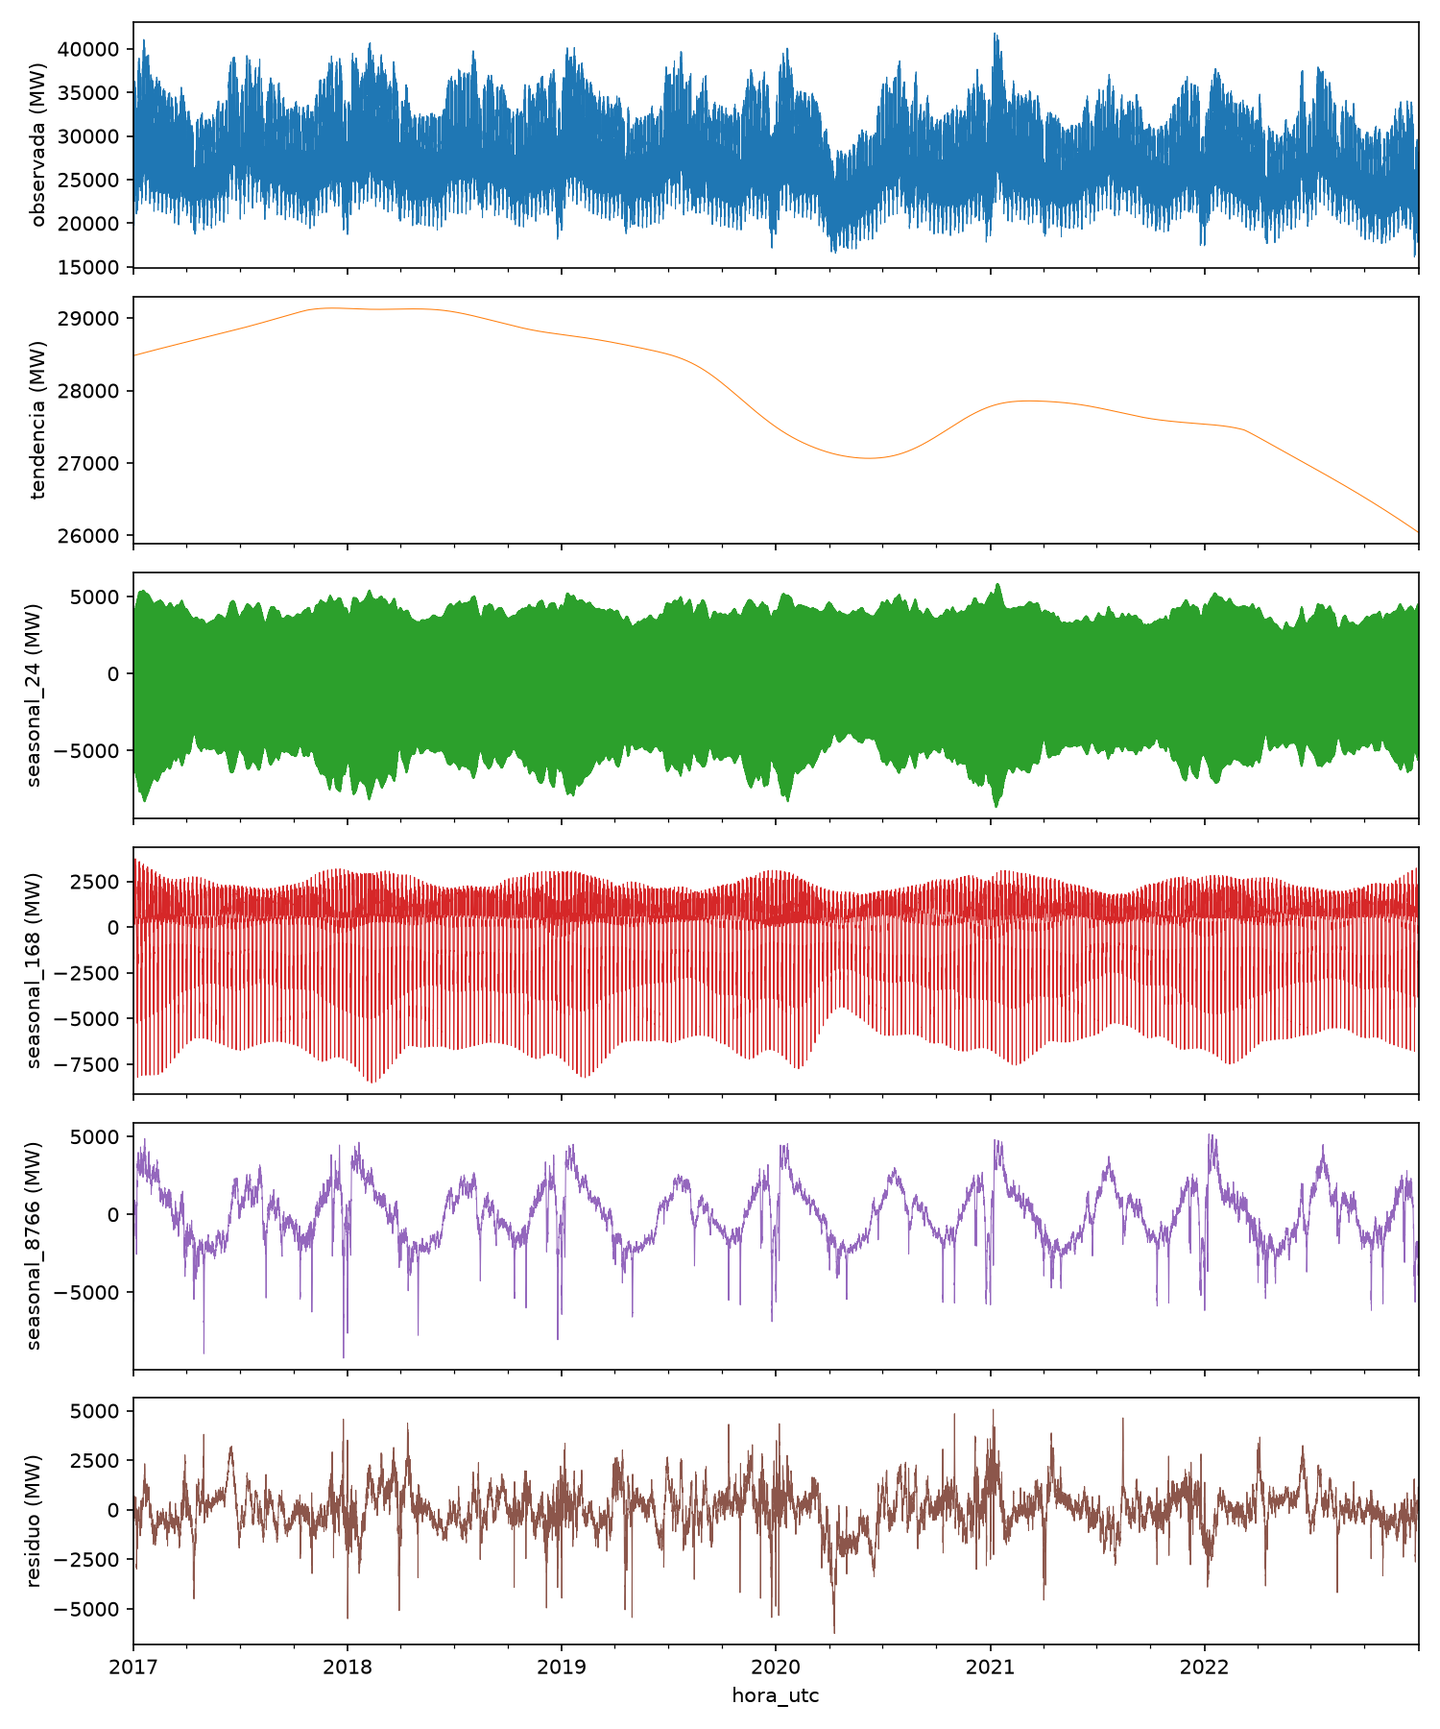
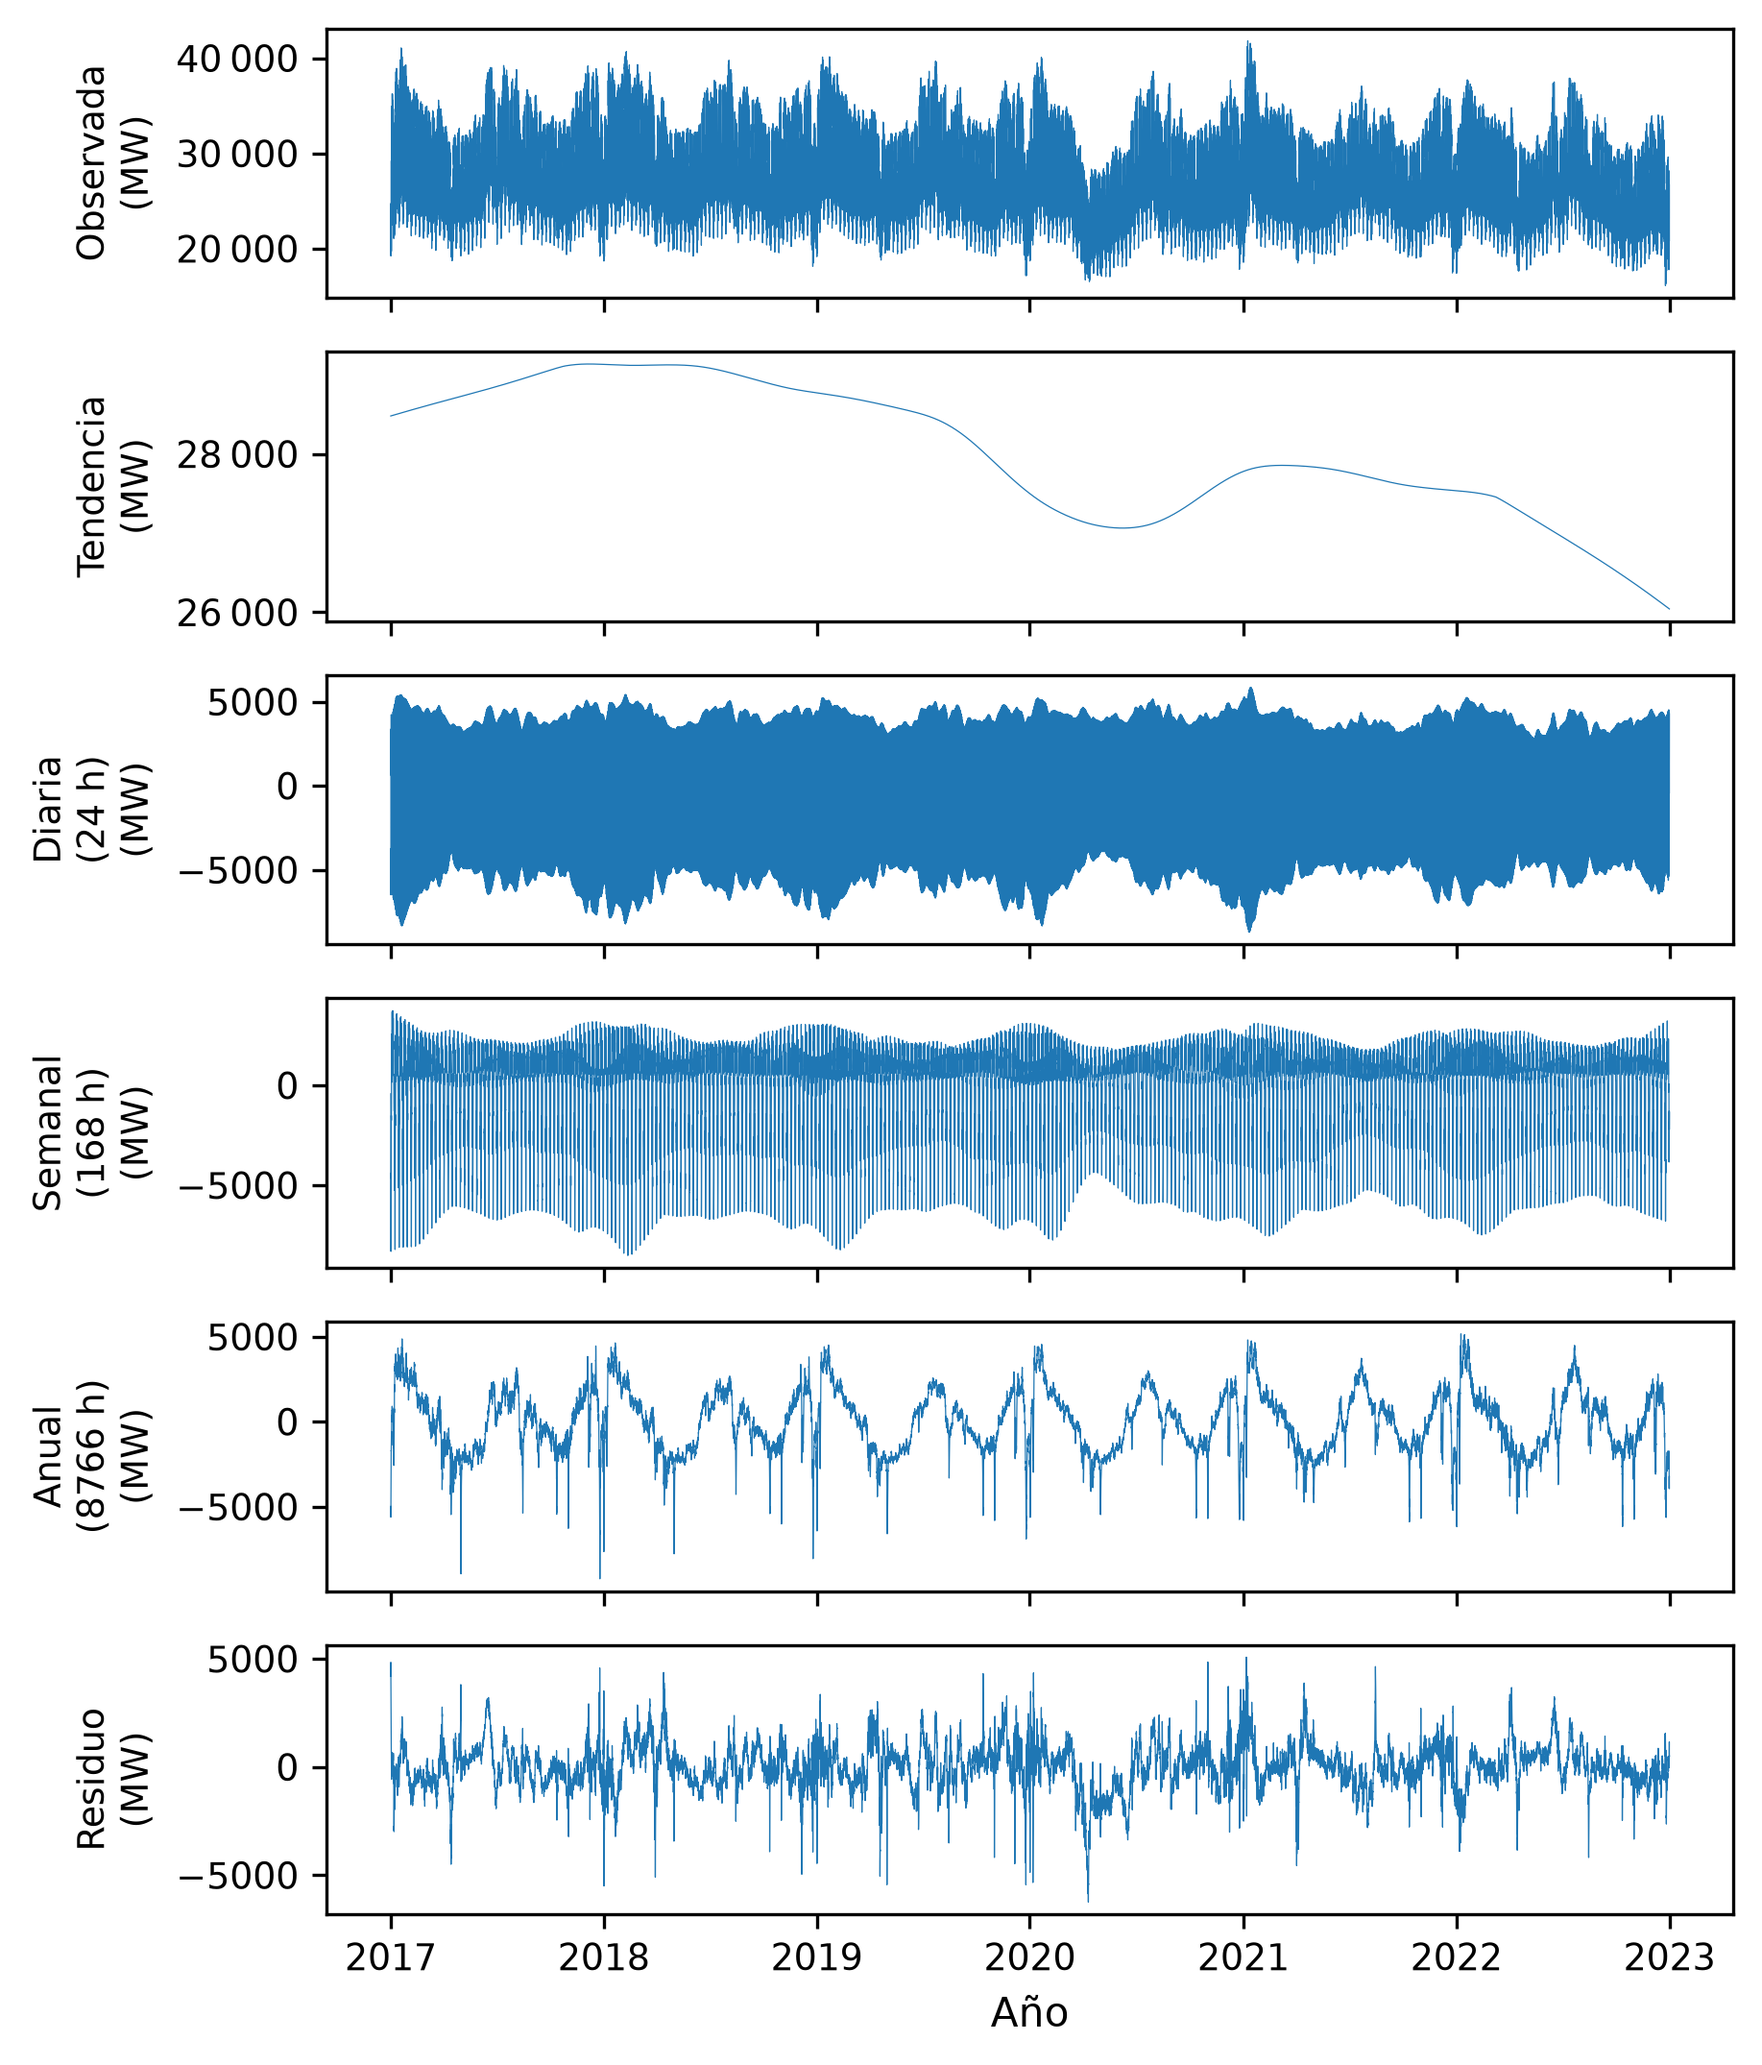
feat(exploracion): estadísticos descriptivos 2017-2022 y figuras definitivas de 5.1 guardadas en memoria/figuras (sin título, coma decimal, rótulos en español); 5.1 con unidades del periodograma y banda de Bartlett

diff --git a/src/14_exploracion.py b/src/14_exploracion.py
@@ -3,7 +3,9 @@ from pathlib import Path
 
 import matplotlib
 matplotlib.use("Agg")  # guarda las figuras en archivo, sin abrir ventanas
+import matplotlib.dates as mdates
 import matplotlib.pyplot as plt
+from matplotlib.ticker import FuncFormatter
 import pandas as pd
 import numpy as np
 from scipy.signal import periodogram
@@ -13,8 +15,28 @@ from statsmodels.graphics.tsaplots import plot_acf, plot_pacf
 
 RAIZ = Path(__file__).resolve().parent.parent
 DATASET = RAIZ / "data" / "processed" / "dataset.parquet"
-FIGURAS = RAIZ / "figuras" / "exploracion"
-FIGURAS.mkdir(parents=True, exist_ok=True)
+FIGURAS_MEMORIA = RAIZ / "memoria" / "figuras"  # figuras definitivas (versionadas en git)
+FIGURAS_MEMORIA.mkdir(parents=True, exist_ok=True)
+
+# --- Estilo común de las figuras de la memoria ---
+ANCHO = 6.3  # pulgadas = 16 cm, el ancho de texto de la memoria (A4, márgenes de 2,5 cm)
+plt.rcParams.update({"font.size": 9, "axes.labelsize": 10, "legend.fontsize": 9})
+
+
+def numero_es(x, _pos=None):
+    """Rótulo de eje en formato español: coma decimal y espacio fino de miles desde cinco cifras."""
+    texto = f"{abs(x):.6f}".rstrip("0").rstrip(".")
+    entera, _, decimales = texto.partition(".")
+    if len(entera) >= 5:
+        entera = f"{int(entera):,}".replace(",", "\u2009")
+    texto = entera + ("," + decimales if decimales else "")
+    return ("\u2212" if x < 0 else "") + texto
+
+
+def guardar(fig, nombre):
+    """Guarda una figura definitiva en memoria/figuras a 300 ppp y la cierra."""
+    fig.savefig(FIGURAS_MEMORIA / nombre, dpi=300, bbox_inches="tight")
+    plt.close(fig)
 
 HUELLA_OFICIAL = 5794786326140387865
 FIN_EXPLORACION = pd.Timestamp("2023-01-01")  # 2023 validación, 2024 prueba: no se miran
@@ -30,6 +52,18 @@ print("Desde", explo["hora_local"].min(), "hasta", explo["hora_local"].max())
 print("Horas COVID dentro:", int(explo["excluir_covid"].sum()))
 
 
+# --- 0. Estadísticos descriptivos de 2017-2022 (apertura de la sección 5.1) ---
+dem = explo["demanda_mw"]
+print(f"Demanda: media {dem.mean():.0f} MW, desv. típ. {dem.std():.0f} MW, "
+      f"media sin COVID {dem[~explo['excluir_covid']].mean():.0f} MW")
+print(f"Demanda: mínimo {dem.min():.0f} MW, máximo {dem.max():.0f} MW")
+medias_anuales = dem.groupby(explo["fecha_local"].dt.year).mean().round().astype(int)
+print("Demanda media anual (MW):", medias_anuales.to_dict())
+tp = explo["t_ponderada"]
+print(f"Temperatura ponderada: media {tp.mean():.2f} °C, "
+      f"mínimo {tp.min():.2f} °C, máximo {tp.max():.2f} °C")
+
+
 # --- 1b. Periodograma ---
 y = explo["demanda_mw"].to_numpy()
 frec, potencia = periodogram(y - y.mean(), fs=1.0)  # fs=1: frecuencia en ciclos por hora
@@ -39,16 +73,16 @@ periodo = 1 / frec                                   # periodo en horas
 picos = pd.Series(potencia, index=periodo).nlargest(8)
 print("Periodos con más potencia (h):", [round(p, 1) for p in picos.index])
 
-fig, ax = plt.subplots(figsize=(9, 4))
+fig, ax = plt.subplots(figsize=(ANCHO, 3.0))
 ax.loglog(periodo, potencia, linewidth=0.5)
 for p in (24, 168, 8766):
-    ax.axvline(p, color="red", linestyle="--", linewidth=0.8)
+    ax.axvline(p, color="red", linestyle="--", linewidth=0.8, alpha=0.6, zorder=0)
+    ax.text(p, 1.02, f"{p} h", transform=ax.get_xaxis_transform(),
+            ha="center", va="bottom", fontsize=8, color="red")
+ax.xaxis.set_major_formatter(FuncFormatter(numero_es))  # 10, 100, 1000, 10 000 en vez de potencias
 ax.set_xlabel("Periodo (horas)")
-ax.set_ylabel("Potencia espectral")
-ax.set_title("Periodograma de la demanda horaria, 2017-2022")
-fig.tight_layout()
-fig.savefig(FIGURAS / "periodograma.png", dpi=150)
-plt.close(fig)
+ax.set_ylabel("Potencia espectral (MW²·h)")
+guardar(fig, "periodograma.png")
 
 
 # --- 1b bis. Peso del ciclo anual frente al semestral ---
@@ -78,13 +112,18 @@ print("Desviación típica de cada componente (MW):")
 print(comp.std().round(0))
 
 paneles = pd.concat([serie.rename("observada"), comp[["tendencia", "seasonal_24", "seasonal_168", "seasonal_8766", "residuo"]]], axis=1)
-axes = paneles.plot(subplots=True, figsize=(10, 12), linewidth=0.5, legend=False)
+ROTULOS_MSTL = {"observada": "Observada", "tendencia": "Tendencia", "seasonal_24": "Diaria\n(24 h)",
+                "seasonal_168": "Semanal\n(168 h)", "seasonal_8766": "Anual\n(8766 h)", "residuo": "Residuo"}
+fig, axes = plt.subplots(len(paneles.columns), 1, figsize=(ANCHO, 8.5), sharex=True)
 for ax, nombre in zip(axes, paneles.columns):
-    ax.set_ylabel(f"{nombre} (MW)")
-fig = axes[0].get_figure()
-fig.tight_layout()
-fig.savefig(FIGURAS / "descomposicion_mstl.png", dpi=150)
-plt.close(fig)
+    ax.plot(paneles.index, paneles[nombre], linewidth=0.3)
+    ax.set_ylabel(ROTULOS_MSTL[nombre] + "\n(MW)", fontsize=9)
+    ax.yaxis.set_major_formatter(FuncFormatter(numero_es))
+axes[-1].xaxis.set_major_locator(mdates.YearLocator())
+axes[-1].xaxis.set_major_formatter(mdates.DateFormatter("%Y"))
+axes[-1].set_xlabel("Año")
+fig.align_ylabels(axes)
+guardar(fig, "descomposicion_mstl.png")
 
 
 # --- 2a. Contrastes de estacionariedad: ADF y KPSS ---
@@ -102,16 +141,21 @@ for nombre, s in [("demanda", serie), ("residuo", comp["residuo"])]:
     r = acf(s, nlags=336)
     print(f"ACF {nombre}: k=1 {r[1]:.2f}, k=24 {r[24]:.2f}, k=168 {r[168]:.2f}, k=336 {r[336]:.2f}")
 
-fig, axes = plt.subplots(2, 2, figsize=(12, 7))
-for fila, (nombre, s) in enumerate([("demanda", serie), ("residuo MSTL", comp["residuo"])]):
-    plot_acf(s, lags=400, ax=axes[fila, 0], markersize=2, title=f"ACF {nombre}")
-    plot_pacf(s, lags=400, ax=axes[fila, 1], markersize=2, method="ywm", title=f"PACF {nombre}")
+fig, axes = plt.subplots(2, 2, figsize=(ANCHO, 4.8), sharex=True, sharey=True)
+for fila, (nombre, s) in enumerate([("de la demanda", serie), ("del residuo de MSTL", comp["residuo"])]):
+    plot_acf(s, lags=400, ax=axes[fila, 0], markersize=1.5, title=f"ACF {nombre}")
+    plot_pacf(s, lags=400, ax=axes[fila, 1], markersize=1.5, method="ywm", title=f"PACF {nombre}")
 for ax in axes.flat:
+    ax.title.set_fontsize(9)
     for p in (24, 168, 336):
-        ax.axvline(p, color="red", linestyle="--", linewidth=0.6)
+        ax.axvline(p, color="red", linestyle="--", linewidth=0.6, alpha=0.6, zorder=0)
+    ax.yaxis.set_major_formatter(FuncFormatter(numero_es))
+for ax in axes[1, :]:
+    ax.set_xlabel("Retardo (horas)")
+for ax in axes[:, 0]:
+    ax.set_ylabel("Correlación")
 fig.tight_layout()
-fig.savefig(FIGURAS / "acf_pacf.png", dpi=150)
-plt.close(fig)
+guardar(fig, "acf_pacf.png")
 
 
 # --- 3a. Curva demanda-temperatura (días laborables, sin COVID) ---
@@ -127,15 +171,16 @@ print("Días laborables sin COVID:", len(lab))
 curva = lab.groupby(lab["temp"].round())["demanda"].agg(["mean", "count"])
 print(curva.round(0).to_string())
 
-fig, ax = plt.subplots(figsize=(8, 5))
-ax.scatter(lab["temp"], lab["demanda"], s=4, alpha=0.4)
-ax.plot(curva.index, curva["mean"], color="red", linewidth=1.5)
+fig, ax = plt.subplots(figsize=(0.85 * ANCHO, 3.6))  # en la memoria va a 0,85 del ancho
+ax.scatter(lab["temp"], lab["demanda"], s=4, alpha=0.4, label="Día laborable")
+ax.plot(curva.index, curva["mean"], color="red", linewidth=1.5, label="Media por intervalo de 1 °C")
 ax.set_xlabel("Temperatura media diaria ponderada (°C)")
 ax.set_ylabel("Demanda media diaria (MW)")
-ax.set_title("Demanda frente a temperatura, laborables 2017-2022 sin COVID")
-fig.tight_layout()
-fig.savefig(FIGURAS / "demanda_temperatura.png", dpi=150)
-plt.close(fig)
+ax.xaxis.set_major_formatter(FuncFormatter(numero_es))
+ax.yaxis.set_major_formatter(FuncFormatter(numero_es))
+ax.set_ylim(top=ax.get_ylim()[1] + 2500)  # hueco arriba para que la leyenda no tape puntos
+ax.legend(markerscale=3, loc="upper center")
+guardar(fig, "demanda_temperatura.png")
 
 
 # --- 3b. Umbrales de grados-día (por provincia, ponderados después) ---
@@ -172,18 +217,20 @@ ajuste = X @ coef
 r2 = 1 - ((yd - ajuste) ** 2).sum() / ((yd - yd.mean()) ** 2).sum()
 print(f"Umbrales: Tc={TC} °C, Tr={TR} °C; R² = {r2:.3f}")
 
-fig, ax = plt.subplots(figsize=(8, 5))
-ax.scatter(lab["temp"], yd, s=4, alpha=0.3, label="observada")
-ax.scatter(lab["temp"], ajuste, s=4, alpha=0.6, color="red", label="ajustada (grados-día + año)")
-ax.axvline(TC, color="black", linestyle="--", linewidth=0.8)
-ax.axvline(TR, color="black", linestyle="--", linewidth=0.8)
+fig, ax = plt.subplots(figsize=(0.85 * ANCHO, 3.6))  # en la memoria va a 0,85 del ancho
+ax.scatter(lab["temp"], yd, s=4, alpha=0.3, label="Observada")
+ax.scatter(lab["temp"], ajuste, s=4, alpha=0.6, color="red", label="Ajustada (grados-día y año)")
+for umbral, nombre, lado in ((TC, "$T_c$", "right"), (TR, "$T_r$", "left")):
+    ax.axvline(umbral, color="black", linestyle="--", linewidth=0.8, zorder=0)
+    ax.text(umbral, 1.02, f" {nombre} = {numero_es(umbral)} °C ", transform=ax.get_xaxis_transform(),
+            ha=lado, va="bottom", fontsize=8)
 ax.set_xlabel("Temperatura media diaria ponderada (°C)")
 ax.set_ylabel("Demanda media diaria (MW)")
-ax.set_title(f"Ajuste con grados-día: Tc = {TC} °C, Tr = {TR} °C")
-ax.legend()
-fig.tight_layout()
-fig.savefig(FIGURAS / "demanda_temperatura_ajuste.png", dpi=150)
-plt.close(fig)
+ax.xaxis.set_major_formatter(FuncFormatter(numero_es))
+ax.yaxis.set_major_formatter(FuncFormatter(numero_es))
+ax.set_ylim(top=ax.get_ylim()[1] + 2500)  # hueco arriba para que la leyenda no tape puntos
+ax.legend(markerscale=3, loc="upper center")
+guardar(fig, "demanda_temperatura_ajuste.png")
 
 
 # --- 4a. Fiestas nacionales de fecha fija que caen en domingo (solo calendario) ---

diff --git a/memoria/capitulos/05_resultados.tex b/memoria/capitulos/05_resultados.tex
@@ -1,8 +1,8 @@
 % =====================================================================
 % Capítulo 5. Desarrollo, análisis y resultados
 % Estado: 5.1 redactada (06/10/2026); 5.2 en adelante pendientes.
-% Figuras de 5.1: versiones provisionales de figuras/exploracion
-% (pendiente regenerarlas con calidad de impresión y rótulos en español).
+% Figuras de 5.1: definitivas (07/10/2026), generadas por src/14_exploracion.py
+% directamente en memoria/figuras/.
 % =====================================================================
 
 \chapter{Desarrollo, análisis y resultados}\label{cap:resultados}
@@ -28,8 +28,8 @@ laborables fuera del periodo de la pandemia, los cálculos emplean la serie
 completa de 2017-2022, porque las herramientas utilizadas requieren una serie
 continua.
 
-% Cifras calculadas el 06/10/2026 con el dataset oficial (huella comprobada)
-% y pandas 2.3.3; PENDIENTE incorporarlas a src/14_exploracion.py.
+% Cifras generadas por src/14_exploracion.py (bloque 0, estadísticos
+% descriptivos), con el dataset oficial (huella comprobada) y pandas 2.3.3.
 En el periodo, la demanda tiene una media de 28\,049~MW y una desviación
 típica de 4560~MW; excluido el periodo de la pandemia, la media sube a 28\,251~MW. El
 valor horario mínimo, 16\,117~MW, y el máximo, 41\,829~MW, se analizan en la
@@ -60,8 +60,9 @@ El primer paso es identificar qué ciclos contiene la serie y cuánto pesa cada
 uno. La figura~\ref{fig:periodograma} muestra el periodograma de la demanda
 horaria, que reparte la varianza de la serie entre ciclos de distinta
 duración (sección~\ref{sec:espectral}). El eje horizontal indica la duración
-del ciclo, en horas, y el vertical la potencia espectral, proporcional al
-cuadrado de la amplitud del ciclo; ambos ejes están en escala logarítmica.
+del ciclo, en horas, y el vertical la potencia espectral, que es proporcional al
+cuadrado de la amplitud del ciclo y se mide en MW$^{2}\cdot$h; ambos ejes
+están en escala logarítmica.
 Las líneas discontinuas señalan los periodos de 24, 168 y 8766 horas, es
 decir, el día, la semana y el año medio de 365,25 días.
 
@@ -244,8 +245,13 @@ La figura~\ref{fig:acf} muestra las funciones de autocorrelación simple
 (ACF) y parcial (PACF) de la demanda y del residuo de la descomposición MSTL,
 hasta el retardo de 400 horas. En cada panel, el eje horizontal es el
 retardo, en horas, y el vertical el coeficiente de correlación, entre $-1$ y
-1. La banda sombreada indica la región compatible con ausencia de
-correlación al 95\,\%, que con más de 52\,000 observaciones es muy estrecha.
+1. La banda sombreada delimita, al 95\,\%, los valores compatibles con una
+correlación nula en cada retardo. En los paneles de la PACF es la banda de
+ruido blanco de la sección~\ref{sec:acf}, de $\pm 0{,}0085$, tan estrecha que
+apenas se distingue. En los de la ACF, la implementación empleada aplica la
+fórmula de Bartlett, que acumula la incertidumbre de las correlaciones de los
+retardos anteriores, por lo que la banda se ensancha con el retardo hasta unos
+$\pm 0{,}08$ para la demanda y $\pm 0{,}10$ para el residuo a 400 horas.
 Las líneas discontinuas marcan los retardos de 24, 168 y 336 horas.
 
 \begin{figure}[htbp]
